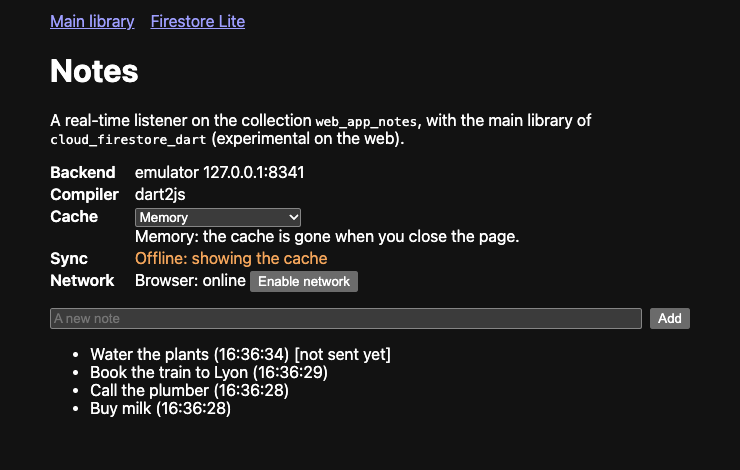
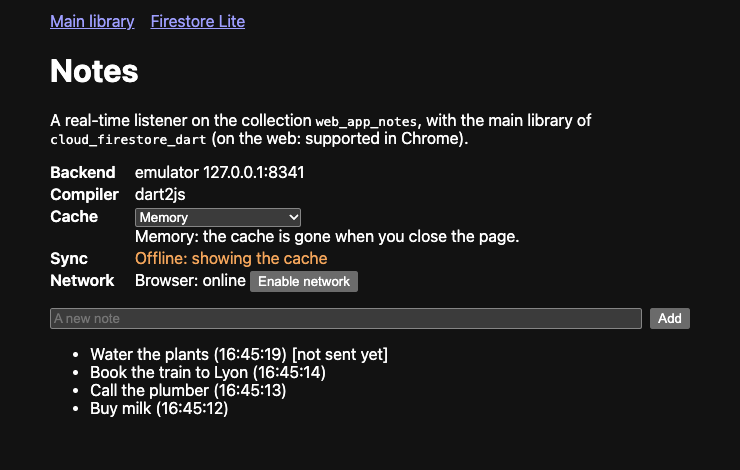
Re-capture web_app with the current page text
The page now says "on the web: supported in Chrome". Light and dark of
each state come from the same page, so they show the same notes.

Changed region(s): [[0.2797, 0.2681, 0.6216, 0.3277], [0.2486, 0.7149, 0.5284, 0.8936]]

diff --git a/examples/web_app/README.md b/examples/web_app/README.md
@@ -159,13 +159,13 @@ has the numbers of a program without the opener.
   the backend unreachable, the read and the write fail with
   `unavailable: Request failed with error: TypeError: Failed to fetch`.
 - Not run against a real Firebase project, and not in other browsers.
-- The two screenshots above (taken with 0.1; the page did not change): built with
-  `dart compile js -O2` as described, served by
-  `bin/serve.dart`, opened in headless Chrome with `?emulator=127.0.0.1:8141` and driven over the
-  Chrome DevTools protocol (memory cache, Dart 3.12.2, Firestore emulator v1.22.0). The dark
-  captures (`web_app_online_dark.png`, `web_app_offline_dark.png`) were taken the same way on
-  2026-11-18 against a private emulator (`tool/start_private_emulator.sh 8341`), with
-  `--blink-settings=preferredColorScheme=0`: the page's own dark colours from `styles.css`.
+- The screenshots above, light and dark (2026-11-18, with 0.2.0): built with
+  `dart compile js -O2` as described, served by `bin/serve.dart`, opened in headless Chrome
+  with `?emulator=127.0.0.1:8341` against a private emulator (`tool/start_private_emulator.sh
+  8341`) and driven over the Chrome DevTools protocol (memory cache, Dart 3.12.2, Firestore
+  emulator v1.22.0). Each state was captured twice from the same page, with
+  `prefers-color-scheme` emulated as light and as dark: the dark one shows the page's own dark
+  colours from `styles.css`.
 
 ## A real project
 
